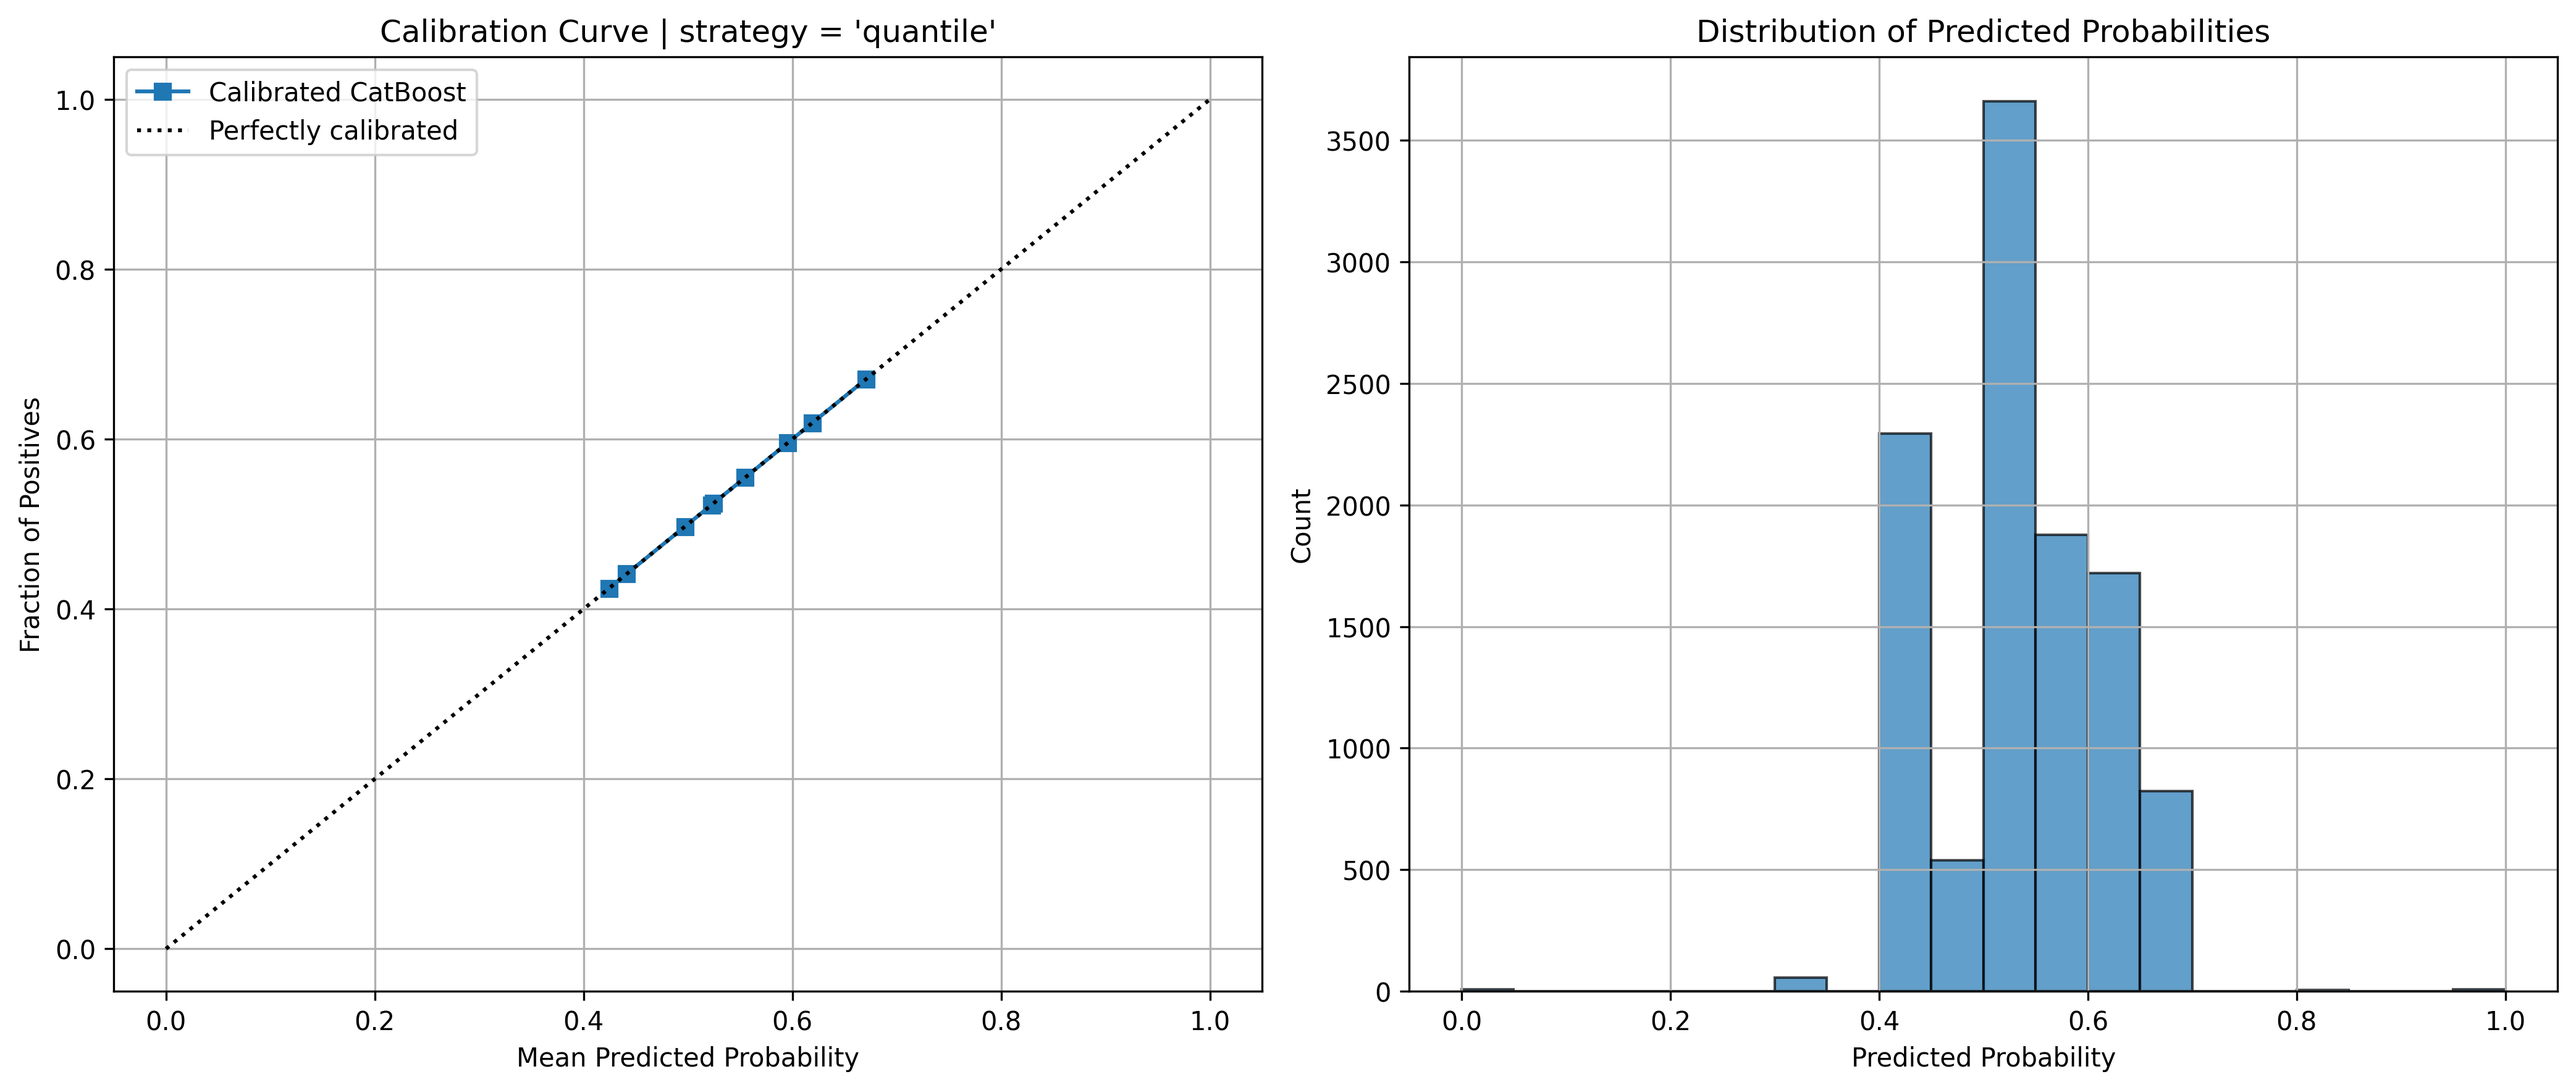
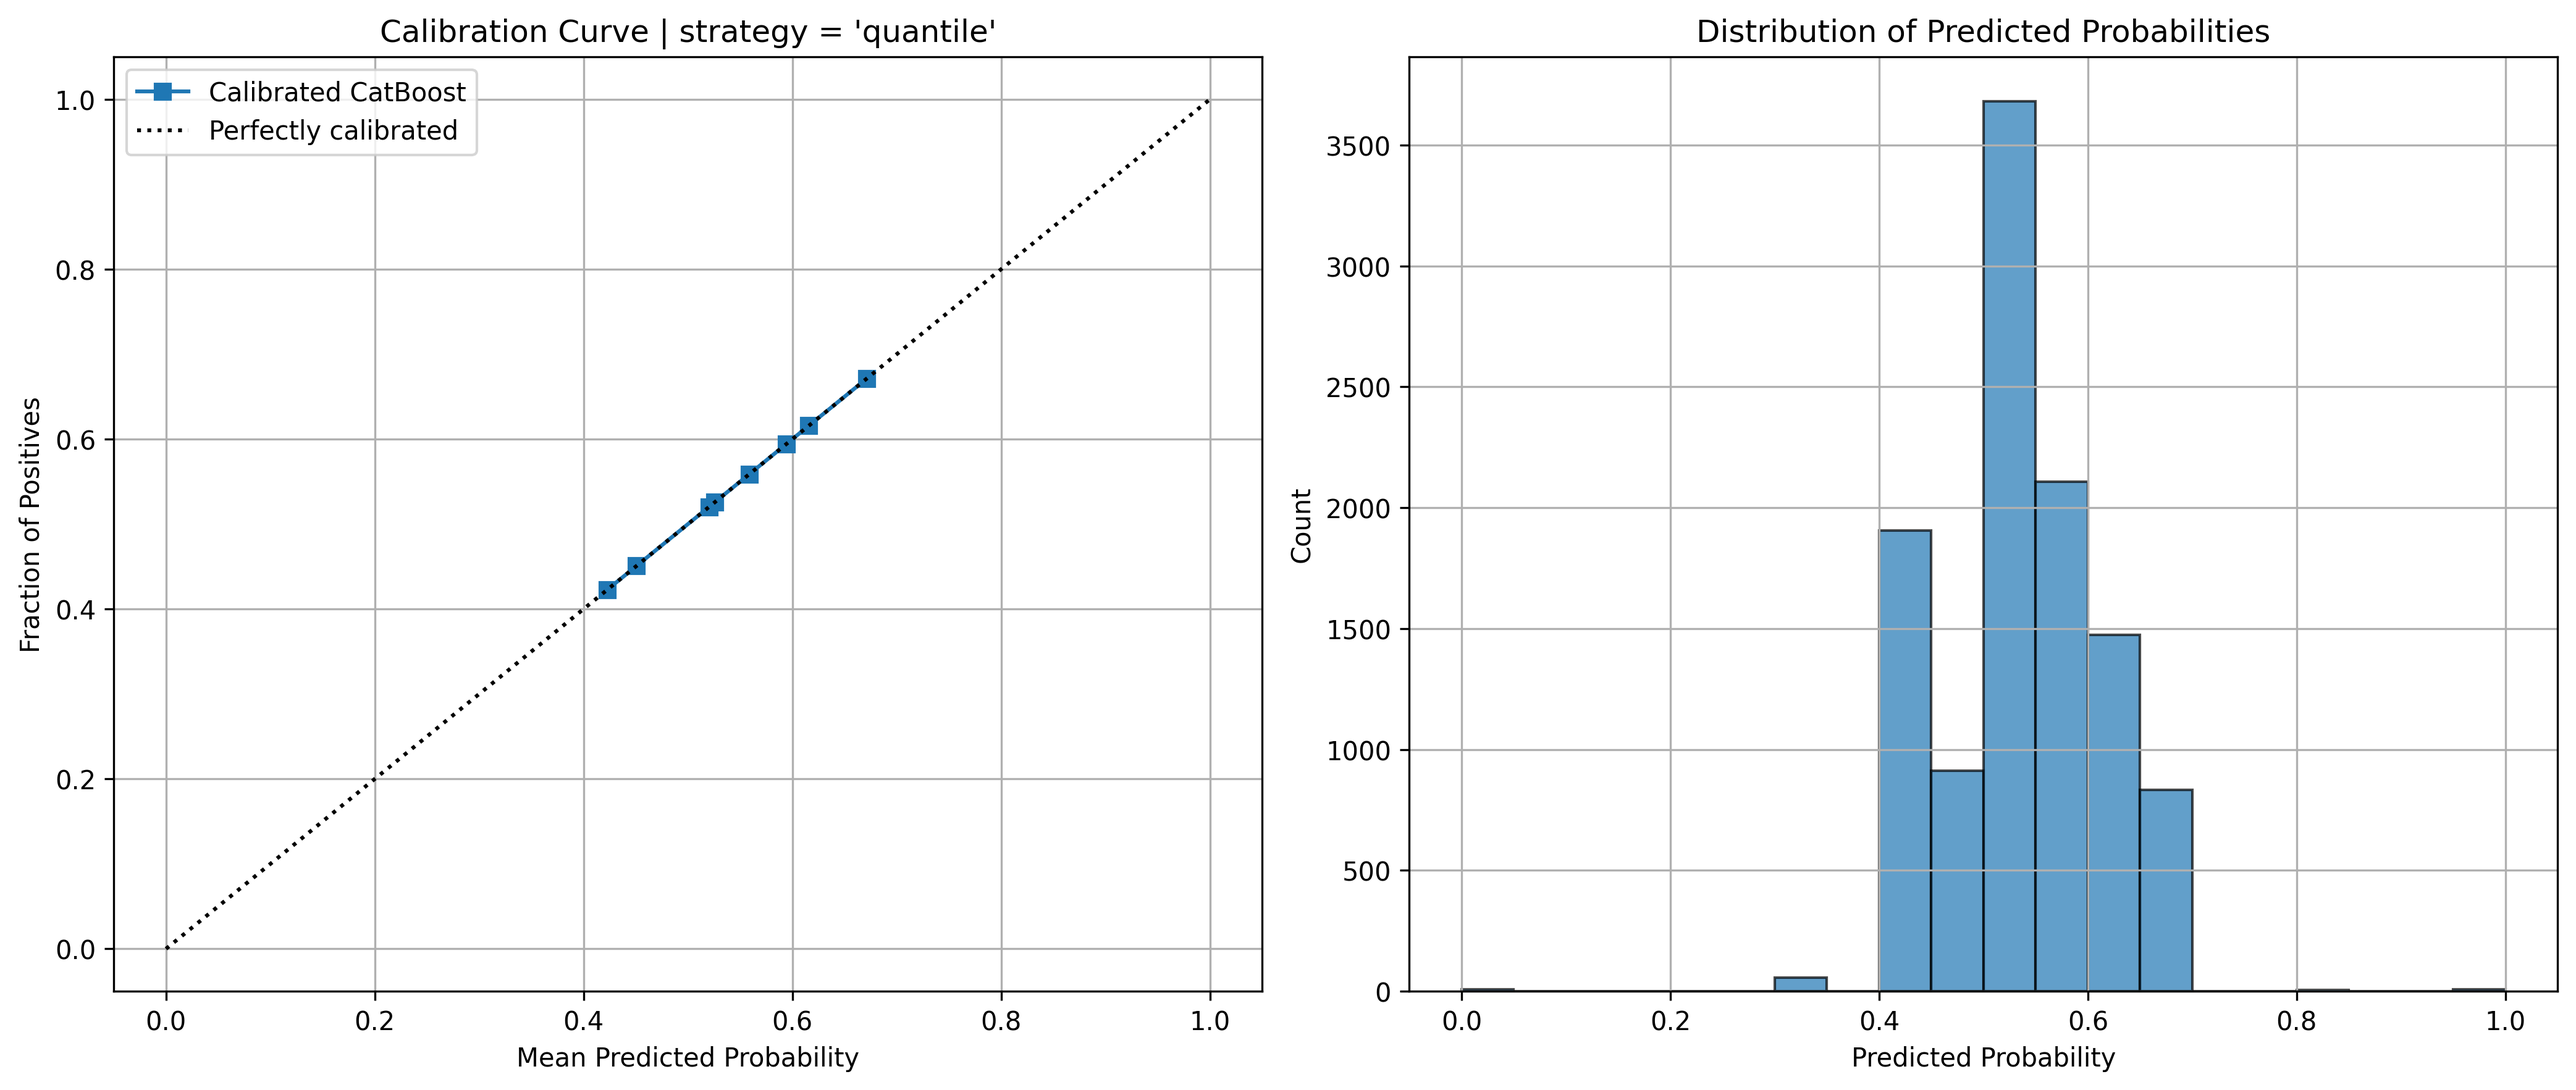
going towards automating bet decision summaries/recommendations for easier input into app

diff --git a/src/betting/betting_automation_v2.py b/src/betting/betting_automation_v2.py
@@ -1,0 +1,253 @@
+import pandas as pd
+import numpy as np
+from typing import Dict, List, Tuple
+import argparse
+from datetime import date
+
+class BettingAutomation:
+    def __init__(self, bankroll: float = 600, kelly_fraction: float = 0.25):
+        self.bankroll = bankroll
+        self.kelly_fraction = kelly_fraction
+    
+    def calculate_kelly(self, odds: int, pred_prob: float) -> float:
+        """Calculate Kelly criterion for given odds and predicted probability"""
+        if odds < 0:
+            W = 100 / abs(odds)
+        else:
+            W = odds / 100
+        
+        # Kelly formula: f = (bp - q) / b where b = W, p = pred_prob, q = 1-pred_prob
+        kelly_f = (W * pred_prob - (1 - pred_prob)) / W
+        return self.kelly_fraction * kelly_f
+    
+    def calculate_implied_probability(self, odds: int) -> float:
+        """Convert American odds to implied probability"""
+        if odds < 0:
+            return abs(odds) / (abs(odds) + 100)
+        else:
+            return 100 / (odds + 100)
+    
+    def calculate_expected_value(self, odds: int, pred_prob: float, bet_amount: float) -> float:
+        """Calculate expected value of a bet"""
+        if odds < 0:
+            win_amount = bet_amount * (100 / abs(odds))
+        else:
+            win_amount = bet_amount * (odds / 100)
+        
+        expected_return = (pred_prob * win_amount) - ((1 - pred_prob) * bet_amount)
+        return expected_return
+    
+    def process_game(self, home_team: str, away_team: str, 
+                    home_odds: int, away_odds: int, 
+                    home_win_prob: float) -> Dict:
+        """Process a single game and determine betting recommendation"""
+        
+        away_win_prob = 1 - home_win_prob
+        
+        # Calculate implied probabilities
+        home_implied_prob = self.calculate_implied_probability(home_odds)
+        away_implied_prob = self.calculate_implied_probability(away_odds)
+        
+        # Calculate edges
+        home_edge = home_win_prob - home_implied_prob
+        away_edge = away_win_prob - away_implied_prob
+        
+        # Calculate Kelly bet sizes
+        home_kelly = self.calculate_kelly(home_odds, home_win_prob)
+        away_kelly = self.calculate_kelly(away_odds, away_win_prob)
+        
+        # Calculate bet amounts
+        home_bet_amount = max(0, home_kelly * self.bankroll)
+        away_bet_amount = max(0, away_kelly * self.bankroll)
+        
+        # Determine recommendation
+        recommendation = {
+            'matchup': f"{away_team} @ {home_team}",
+            'home_team': home_team,
+            'away_team': away_team,
+            'home_odds': home_odds,
+            'away_odds': away_odds,
+            'home_win_prob': home_win_prob,
+            'away_win_prob': away_win_prob,
+            'home_edge': home_edge,
+            'away_edge': away_edge,
+            'home_bet_amount': home_bet_amount,
+            'away_bet_amount': away_bet_amount,
+            'recommendation': 'NO BET'
+        }
+        
+        # Determine best bet
+        if home_edge > 0 and away_edge > 0:
+            if home_edge > away_edge:
+                recommendation['recommendation'] = f"BET ${home_bet_amount:.2f} on {home_team} ({home_odds:+d})"
+                recommendation['bet_team'] = home_team
+                recommendation['bet_amount'] = home_bet_amount
+                recommendation['bet_odds'] = home_odds
+                recommendation['edge'] = home_edge
+            else:
+                recommendation['recommendation'] = f"BET ${away_bet_amount:.2f} on {away_team} ({away_odds:+d})"
+                recommendation['bet_team'] = away_team
+                recommendation['bet_amount'] = away_bet_amount
+                recommendation['bet_odds'] = away_odds
+                recommendation['edge'] = away_edge
+        elif home_edge > 0:
+            recommendation['recommendation'] = f"BET ${home_bet_amount:.2f} on {home_team} ({home_odds:+d})"
+            recommendation['bet_team'] = home_team
+            recommendation['bet_amount'] = home_bet_amount
+            recommendation['bet_odds'] = home_odds
+            recommendation['edge'] = home_edge
+        elif away_edge > 0:
+            recommendation['recommendation'] = f"BET ${away_bet_amount:.2f} on {away_team} ({away_odds:+d})"
+            recommendation['bet_team'] = away_team
+            recommendation['bet_amount'] = away_bet_amount
+            recommendation['bet_odds'] = away_odds
+            recommendation['edge'] = away_edge
+        
+        return recommendation
+    
+    def generate_betting_summary(self, games_data: List[Dict]) -> pd.DataFrame:
+        """Generate a clean betting summary from games data"""
+        
+        recommendations = []
+        for game in games_data:
+            rec = self.process_game(
+                game['home_team'], game['away_team'],
+                game['home_odds'], game['away_odds'],
+                game['home_win_prob']
+            )
+            recommendations.append(rec)
+        
+        # Convert to DataFrame
+        df = pd.DataFrame(recommendations)
+        
+        # Filter to only recommended bets
+        bets_to_make = df[df['recommendation'] != 'NO BET'].copy()
+        
+        if len(bets_to_make) > 0:
+            # Sort by edge (highest first)
+            bets_to_make = bets_to_make.sort_values('edge', ascending=False)
+            
+            # Clean summary columns
+            summary_cols = ['matchup', 'bet_team', 'bet_odds', 'bet_amount', 'edge', 'recommendation']
+            return bets_to_make[summary_cols].reset_index(drop=True)
+        else:
+            return pd.DataFrame()
+    
+    def print_betting_summary(self, games_data: List[Dict]):
+        """Print a clean, actionable betting summary"""
+        
+        print(f"\n{'='*60}")
+        print(f"BETTING SUMMARY - {date.today()}")
+        print(f"Bankroll: ${self.bankroll} | Kelly Fraction: {self.kelly_fraction}")
+        print(f"{'='*60}")
+        
+        df = self.generate_betting_summary(games_data)
+        
+        if len(df) == 0:
+            print("\n❌ NO BETS RECOMMENDED TODAY")
+            print("No positive expected value opportunities found.")
+            return
+        
+        print(f"\n✅ {len(df)} RECOMMENDED BETS:")
+        print("-" * 60)
+        
+        total_action = 0
+        for idx, row in df.iterrows():
+            print(f"{idx+1}. {row['recommendation']}")
+            print(f"   Edge: {row['edge']:.1%} | Expected Value: ${row['bet_amount'] * row['edge']:.2f}")
+            print(f"   Matchup: {row['matchup']}")
+            total_action += row['bet_amount']
+            print()
+        
+        print(f"Total Action: ${total_action:.2f} ({total_action/self.bankroll:.1%} of bankroll)")
+        
+        # Safety checklist
+        print("\n" + "="*60)
+        print("SAFETY CHECKLIST:")
+        print("□ Double-check team names match DraftKings exactly")
+        print("□ Verify odds haven't moved significantly")
+        print("□ Confirm bet amounts before placing")
+        print("□ Check for duplicate bets in DraftKings app")
+        print("="*60)
+
+    def load_predictions_and_odds(self, predictions_csv: str, odds_csv: str = None) -> List[Dict]:
+        """Load your prediction data and combine with odds"""
+        
+        # Load predictions (your scoring output)
+        df_predictions = pd.read_csv(predictions_csv)
+        
+        if odds_csv:
+            # If you have odds data, merge it
+            df_odds = pd.read_csv(odds_csv)
+            # Add your merge logic here based on your existing join_odds_to_scored_data function
+            
+        # For now, create manual template for DraftKings odds entry
+        games_data = []
+        
+        print("MANUAL ODDS ENTRY REQUIRED:")
+        print("="*50)
+        
+        for idx, row in df_predictions.iterrows():
+            home_team = row.get('home_team', 'Unknown')
+            away_team = row.get('away_team', 'Unknown') 
+            home_win_prob = row.get('scoring_probabilities', 0.5)
+            
+            print(f"\nGame {idx+1}: {away_team} @ {home_team}")
+            print(f"Predicted Home Win Prob: {home_win_prob:.3f}")
+            
+            # Manual odds entry (you'd replace this with your Excel data)
+            try:
+                home_odds_input = input(f"Enter HOME odds for {home_team} (e.g., +170 or -150): ")
+                away_odds_input = input(f"Enter AWAY odds for {away_team} (e.g., +170 or -150): ")
+                
+                home_odds = int(home_odds_input.replace('+', ''))
+                away_odds = int(away_odds_input.replace('+', ''))
+                
+                games_data.append({
+                    'home_team': home_team,
+                    'away_team': away_team,
+                    'home_odds': home_odds,
+                    'away_odds': away_odds,
+                    'home_win_prob': home_win_prob
+                })
+                
+            except (ValueError, KeyboardInterrupt):
+                print(f"Skipping game: {away_team} @ {home_team}")
+                continue
+        
+        return games_data
+
+
+# Example usage
+if __name__ == "__main__":
+    
+    # Initialize betting automation
+    betting_bot = BettingAutomation(bankroll=600, kelly_fraction=0.25)
+    
+    # Option 1: Use your actual prediction files
+    try:
+        predictions_file = "src/scoring/output_logistic_all_data.csv"  # Your scoring output
+        games_data = betting_bot.load_predictions_and_odds(predictions_file)
+        betting_bot.print_betting_summary(games_data)
+    except FileNotFoundError:
+        print("Prediction file not found, using sample data...")
+        
+        # Option 2: Manual sample data (for testing)
+        sample_games = [
+            {
+                'home_team': 'San Francisco Giants',
+                'away_team': 'Pittsburgh Pirates', 
+                'home_odds': 170,
+                'away_odds': -210,
+                'home_win_prob': 0.567
+            },
+            {
+                'home_team': 'Philadelphia Phillies',
+                'away_team': 'Baltimore Orioles',
+                'home_odds': -150,
+                'away_odds': 130,
+                'home_win_prob': 0.45
+            }
+        ]
+        
+        betting_bot.print_betting_summary(sample_games)

diff --git a/src/models/train_model_logistic_all_data.py b/src/models/train_model_logistic_all_data.py
@@ -96,7 +96,7 @@ class MLBModelTrainer:
         """Calculate calibration score (reliability)"""
         try: 
             fraction_of_positives, mean_predicted_value = calibration_curve(
-                y_true, y_prob, n_bins=n_bins, strategy="uniform"
+                y_true, y_prob, n_bins=n_bins, strategy="quantile"
             )
             # Calculate Expected Calibration Error (ECE)
             bin_boundaries = np.linspace(0,1,n_bins+1)
@@ -527,7 +527,7 @@ if __name__=='__main__':
         df_model = load_model_data(input_model_data)
         df_model  = df_model[df_model['game_date']<datetime.today()]
         target = 'home_win'
-        holdout_start_date = '2025-07-24'
+        holdout_start_date = datetime.date.today().strftime("%Y-%m-%d")
         # Data splitting
         df_train_init, df_holdout, _ = data_split(
             df=df_model,
